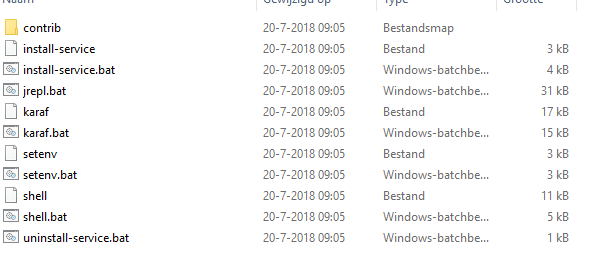
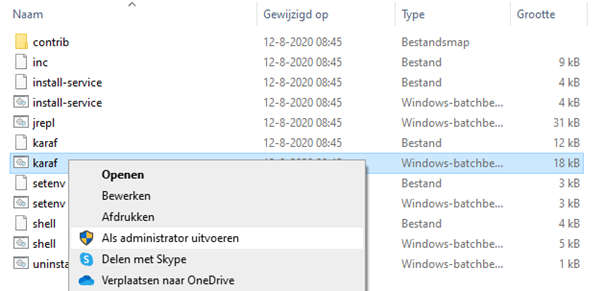
On premise runtime installation
Updated the documents regarding the runtime installations. One point of discussion is the picture with the Java Version, Runtime Numbers and Build Numbers

diff --git a/mds/howto/runtime-installations-onpremise-windows.md b/mds/howto/runtime-installations-onpremise-windows.md
@@ -1,0 +1,193 @@
+# On-premise (Windows) eMagiz runtime installation document
+
+This document describes what the requirements are for a eMagiz runtime installation on-premise on a Windows machine as well as a step by step guideline how to install a runtime on-premise. 
+An on-premise installation often occurs in an architecture where the runtime should run within your own or your customer’s network. 
+This is recommended for all connectors that communicate with a system that is located inside your network or if you would like to test locally on your computer. 
+For an installation of a runtime on a Linux system please see [On-premise eMagiz runtime installation document Linux](runtime-installations-onpremise-linux.md)
+
+## Requirements
+To install a runtime, please be aware that eMagiz needs an environment that satisfies certain requirements. 
+These requirements can be different depending on your architectural choices. 
+Most common is the connector inside your network and a JMS and container running outside the network. 
+In that case, if you are running only connectors on this environment, please keep the following requirements in mind:
+1.	OS with support for Java 
+2.	OS user with granted security rights to run startup services (Windows services) 
+3.	The correct Java installation (Java 8 SE JRE for example, https://adoptopenjdk.net) with NO automatic updates. OpenJDK 8 is currently the recommended version for eMagiz installations.
+4.	NTP synchronization – all eMagiz service instances should use the same time and settings. 
+5.	Access to internet 
+6.	Outbound JMS traffic - port 8443 (and 8444 in case of failover situation) - amqp.emagiz.com / cloudXXXX.emagizcloud.com 
+	-	General monitoring data to eMagiz iPaaS 
+	-	Specific JMS traffic to eMagiz JMS Server 
+7.	Outbound HTTPS traffic – port 443 – Specific provisioning data- https://rts.emagiz.com/ws/ / https://repository.emagiz.com    
+8.	Hardware requirements 
+	-	Modern CPU  
+	-	Enough Disk Space according to sizing calculations 
+9.	Enough Memory according to sizing calculations 
+
+## Additional information:
+1)	To run an eMagiz runtime, the OS of the server should support and have Java installed. 
+The current version is Java 8. eMagiz runtimes with version of 5.x or higher only support Java 8. 
+These runtimes will not run on Java 7 or earlier versions. 
+If you are running on Java 7, or if you need to use an earlier version of the eMagiz runtime, 
+please also check ‘Installing an older version of the eMagiz runtime’.
+2)	Additional to 1), please do NOT allow automatic updates. Updates in Java 8 are installed in a different directory than the earlier version. This causes that with every update, your JAVA_HOME system variable, which ensures that if you use Java you use that version, should be updated manually by every update. If you update automatically, this will cause issues since the JAVA_HOME variable will not properly set after each update. See the following Q&A question to learn more about the importance of JAVA_HOME when using on-premise connectors: https://my.emagiz.com/p/question/172825635700348986. Since it can be though to find a Java version via the Oracle site, you are advised to download your Java version from https://adoptopenjdk.net. 
+3)	By installing a runtime, you also need an OS user with security rights to run startup services. This is required because installing the corresponding service for a connector will make sure that the connector can independently stop or start without any user intervention. This means that if the server (JMS) restarts, no manual actions are required. 
+4)	Each server has a date and time. An eMagiz service instance use the NTP time protocol. The NTP protocol is a networking protocol for clock synchronization based on UTC time. Synchronizing your server with the NTP protocol ensures that eMagiz runtimes ‘talk’ with the same date and time. This ensures that you prevent for example:
+-	That you are not able to reach your connector via the Runtime Dashboard
+-	That synchronized communication fails due to time out errors caused by out of sync runtimes instead of that a system fails to response.
+5)	In order to communicate with other runtimes, that are hosted outside your network, you need access to the internet.
+6)	For your connector to communicate with your JMS server, the on-premise server needs to open its port 8443 (and 8444 in case of failover) for outgoing communication (from the server point of view). Via this port JMS data is communicated. In ensures for example that you are able to reach the connector via the runtime dashboard and that you can see statistics of the runtime in Manage. 
+Via a different port, your connector will communicate with your container and its flows. eMagiz requires that the server opens its port 443 for outgoing information to communicate the actual messages exchanged. 
+7)	The servers itself has requirements as well. Please ensure that the server has a modern CPU, enough diskspace and enough memory. 
+8)	Most important is that for each runtime at least 1GB of RAM Memory is available. These calculation is made as follows:
+-	500 MB heap memory
+-	192 MB metaspace memory
+-	100 MB overhead
+The above is the bare minimum needed to run. As the number of flows running on a connector increases the memory also needs to be increased. The same logic applies to flows that use up a lot of memory because multiple steps are executed within that flow. Both are solid reasons to use 1GB as a general rule of thumb but at the same time always take into account new developments when setting up the sizing.
+
+
+If you install your JMS and container as well within your network and not in the cloud, please keep in mind that you need to open port 8443 (and 8444 in case of failover) as well for incoming communication.
+
+![](../../img/howto/localconnector-infrastructure-view.png)
+
+## Java runtime and eMagiz runtime compatibility
+Java is required to run eMagiz instances, however Java and eMagiz are continuously developing their software. This means that at some point in time older versions of Java and older parts of eMagiz are not supported anymore. In this chapter we will discuss which java version works with which runtime version. 
+Different elements will be discussed. The following schema will show the compatibility of eMagiz in relation with Java and the flow build numbers. 
+
+![](../../img/howto/runtime-win-compatible.png)
+
+X = Not compatible
+! = Caution, not supported anymore 
+V = Compatible
+
+With runtime we mean the version of the eMagiz runtime. Not only flows do have a version number, eMagiz is also continuously developing their runtime as well. The newest runtime version above 5.x is only compatible with Java 8. You can check your runtime version in eMagiz Manage -> Monitoring. Search for ‘uptime’ in the message search field. 
+The results will show what the runtime version of the runtime is. Runtime versions above 5.x show also the version number in the log lines when starting the runtime.
+With build number we mean the flow build number is eMagiz. You can check them either in Deploy -> Releases or in your Runtime Dashboard.
+Check before your installation what runtime should be used. Advice and supported option from eMagiz standpoint is to use Java 8 and the newest eMagiz runtime. If that is not possible, please check if your situation is applicable above. 
+If you have a situation that you end up with the yellow exclamation mark or you are unsure, please check with your eMagiz consultant or Product Manager (productmanamgent@emagiz.com) about what the possibilities are.
+
+
+## How to install runtime
+This chapter will discuss a step to step guideline of how to install a new eMagiz runtime of 5.X or higher. As a reminder this how to is only applicable for a Windows environment. Please see see [On-premise eMagiz runtime installation document Linux](runtime-installations-onpremise-linux.md) on how to install a runtime on a Linux enviroment. 
+If you need to install an earlier version, please also read the extra information ‘Installing an older version of the eMagiz runtime’
+
+### Pre-configuration
+
+1)	The first step of this How-To is to make sure before installing that the requirements as stated above are met. 
+2)	Go to the server where you need to install the runtime.
+3)	Check the JAVA_HOME system variable if it is set and is directed to the correct folder. You can do this by going to ‘This Computer’.
+
+![](../../img/howto/runtime-win-install-step3-1.png)
+
+4) Click with your right mouse button on This PC and go to Properties. The following screen pops up and go to Advanced System Settings.
+
+![](../../img/howto/runtime-win-install-step3-2.png)
+
+5) Go to Environment Variables.
+
+![](../../img/howto/runtime-win-install-step3-3.png)
+
+6) Check if the JAVA_HOME system veriable exists and it directs to the correct JAVA directory. If it does not exists, please add it.
+
+![](../../img/howto/runtime-win-install-step3-4.png)
+
+### Download runtime
+
+1.	Download the eMagiz runtime of your connector, JMS or container via eMagiz Deploy phase in the Containers tab on the server where it needs to be installed. Please note the environment you want the runtime of. If you download the runtime of the wrong environment you will send to or receive of the wrong environment. For example you want to test a flow but by downloading the runtime from the incorrect enviroment you end up sending data to the Production environment. In the case below, we see that we are downloading a connector runtime ordsys for the Test environment.
+
+![](../../img/howto/runtime-win-install-step4-1.png)
+
+### Unzip the runtime
+
+1.	Unzip your download package into a directory which is not too deep into the directory structure. 
+A directory structure which is too deep will cause issues when extracting the runtime.
+For example use: C://eMagiz/test
+Do not use: C://Programs/eMagiz/test/connector/appeee/installation
+2.	Go to the unpacked package and open the folder
+
+### Test the runtime
+1.	In the Bin folder, you can validate if the service can make a connection via karaf.bat. 
+To check the connection of the service, use right mouse button the execute the file as Administrator.
+Please make sure that before you try this you verify that your JMS is running.
+
+![](../../img/howto/runtime-win-install-step4-2.png)
+
+2.	A screen will pop up and will show you the following:
+	![](../../img/howto/runtime-win-install-step4-3.png)
+	-	Use the command ‘log:tail’ to see the full log. You will see the full stack trace. If the installation is successful, you should see something like this as a result:
+		org.eclipse.gemini.blueprint.extender - 2.1.0.RELEASE |  Application context successfully refreshed (ApplicationContext(bundle=nl.capesystemsintegration.demo.bus.commupd.ordsys.connector-infra.spring, config=nl.capesystemsintegration.demo.bus.commupd.ordsys.connector-infra.spring_1.0.0.52.xml))
+
+
+If you see an error or the popup closes itself immediately, please check the above steps and requirements. If the popup closes this is probably due to a mismatch between Java version and runtime version. Please look back at the section explaining how to set JAVA_HOME for more information. If all the above steps are correct and you are not able to identify the issue, please contact your eMagiz contact person (emagizcc@capegroep.nl).
+
+3.	If you see the expected logging, check in eMagiz if:
+-	You are able to reach the runtime via the runtime dashboard.
+-	You see runtime statistics in Manage.
+
+4.	Close the popup that is shown (Stop your karaf executable). This makes sure that you stop the karaf.bat from working
+
+### Install the runtime
+
+1.	Install the windows service to ensure that the runtime will automatically start and stop when the server starts, stops or restarts.
+You can do this by running the ‘install-service.bat’.
+
+![](../../img/howto/runtime-win-install-step11-1.png)
+ 
+
+2.	Please check if the service is created. This can be viewed via Services in Windows. You can find Services by using the navigation bar of Windows and searching for Services or typ-in ‘Services.msc’ in your run-window (WINDOWS+R) and press enter.
+You will find in the list of services your eMagiz runtime service.
+
+
+![](../../img/howto/runtime-win-install-step12-1.png)
+
+If you click on the service, you can either start, stop or restart the service.
+
+3.	Click with your right mouse button on the service and select Properties.
+You will see the following screen.
+
+![](../../img/howto/runtime-win-install-step13-1.png)
+
+
+For the start up type, please check Automatically (delayed start)
+In the Tab Log On, you are able to change the user that starts this service, if necessary. This mostly occurs when you are requested to use a different user for the service than your windows user due to security reasons.
+
+4.	Check in eMagiz, just as in step 8, if your connector is still running.
+5.	Test the connection by sending test messages over the bus. In case of the live environment, contact your technical contact to test for you.
+6.	If everything is working correctly, document the steps to access the server and environment and the credentials.
+
+
+## Sizing upgrade addendum
+
+1)	Estimate the size and the predicted load of the runtime and decide if the default memory settings are enough. 
+If you need more memory, for example when you use more than 20 flows on one connector or if some of the flows running on your connector use up more memory as predicted / default. 
+In these cases go to your etc folder of your runtime installation which is named according to the following naming convention -> emagiz_{technicalbusname}-{containertype}-{technicalnameofruntime}_{environment}. In this example that would mean emagiz_commupd-connector-ordsys_test. 
+
+![](../../img/howto/runtime-win-install-1.png)
+
+Within this folder you will find a wrapper.conf file that is named based on the runtimename. 
+
+![](../../img/howto/runtime-win-install-2.png)
+
+When you open this file you can change the memory settings, both heap and metaspace. In the figures shown below you can see which parts of the file you need to change to change the memory settings.
+
+**Heap memory:**
+![](../../img/howto/runtime-win-install-3.png)
+
+**Metaspace memory:**
+![](../../img/howto/runtime-win-install-4.png)
+
+
+Don't forget to save the file as administrator and restart the runtime afterwards to make sure that the new settings are applied
+
+## Multiple Java versions on same server addendum
+
+When confronted with a situation in which you have to support multiple runtime versions running multiple Java versions this addendum is for you. 
+
+This is mainly the case when both Acceptance and Production connectors are running on the same server on-premise or when you migrate environments through multiple steps. To determine the correct Java version needed for your runtime please see the attached picture detailed under Java runtime and eMagiz runtime compatibility. 
+Be warned: These steps need to be taken before you install a runtime. If you have already installed the runtime please use the uninstall-service.bat action to uninstall the service before proceeding. When confronted with this situation on a live environment please first discuss your actions with CAPE support and the customer.
+1) Navigate to the folder belonging to the runtime you currently want to install and start
+2) Navigate to the bin folder within the runtime installation folder
+3) Edit the setenv.bat file via Notepad++ / Kladblok / WordPad
+4) Search (CTRL + F) for: rem SET JAVA_HOME and change this to SET JAVA_HOME=<Java path>      The Java path refers to the location (path) where Java (8) is installed. Commonly this path will look like: 	 ‘C:\Program Files\Java\jre1.8.x_xxx’ of ‘C:\Program Files\Java\jdk1.8.x_xxx’.
+Be warned: Make sure no spaces are surrounding the ‘=’ character
+5) Save the file as administrator to ensure that changes made in the file are also represented in 

diff --git a/mds/howto/runtime-installations-onpremise-linux.md b/mds/howto/runtime-installations-onpremise-linux.md
@@ -1,0 +1,144 @@
+# On-premise (Linux) eMagiz runtime installation document
+
+This document describes what the requirements are for a eMagiz runtime installation on-premise on a Linux machine as well as a step by step guideline how to install a runtime on-premise. 
+An on-premise installation often occurs in an architecture where the runtime should run within your own or your customer’s network. 
+This is recommended for all connectors that communicate with a system that is located inside your network or if you would like to test locally on your computer. 
+For an installation of a runtime on a Windows system please see [On-premise eMagiz runtime installation document Windows](runtime-installations-onpremise-windows.md)
+
+## Requirements
+To install a runtime, please be aware that eMagiz needs an environment that satisfies certain requirements. 
+These requirements can be different depending on your architectural choices. 
+Most common is the connector inside your network and a JMS and container running outside the network. 
+In that case, if you are running only connectors on this environment, please keep the following requirements in mind:
+1.	OS with support for Java 
+2.	OS user with granted security rights to run startup services (Windows services) 
+3.	The correct Java installation (Java 8 SE JRE for example, https://adoptopenjdk.net) with NO automatic updates. OpenJDK 8 is currently the recommended version for eMagiz installations.
+4.	NTP synchronization – all eMagiz service instances should use the same time and settings. 
+5.	Access to internet 
+6.	Outbound JMS traffic - port 8443 (and 8444 in case of failover situation) - amqp.emagiz.com / cloudXXXX.emagizcloud.com 
+	-	General monitoring data to eMagiz iPaaS 
+	-	Specific JMS traffic to eMagiz JMS Server 
+7.	Outbound HTTPS traffic – port 443 – Specific provisioning data- https://rts.emagiz.com/ws/ / https://repository.emagiz.com    
+8.	Hardware requirements 
+	-	Modern CPU  
+	-	Enough Disk Space according to sizing calculations 
+9.	Enough Memory according to sizing calculations
+10. One of the following Linux distributions:
+	-	Debian 6
+	-	Ubuntu 10 and up
+	-	RHEL 6 
+
+## Additional information:
+1)	To run an eMagiz runtime, the OS of the server should support and have Java installed. 
+The current version is Java 8. eMagiz runtimes with version of 5.x or higher only support Java 8. 
+These runtimes will not run on Java 7 or earlier versions. 
+If you are running on Java 7, or if you need to use an earlier version of the eMagiz runtime, 
+please also check ‘Installing an older version of the eMagiz runtime’.
+2)	Additional to 1), please do NOT allow automatic updates. Updates in Java 8 are installed in a different directory than the earlier version. This causes that with every update, your JAVA_HOME system variable, which ensures that if you use Java you use that version, should be updated manually by every update. If you update automatically, this will cause issues since the JAVA_HOME variable will not properly set after each update. See the following Q&A question to learn more about the importance of JAVA_HOME when using on-premise connectors: https://my.emagiz.com/p/question/172825635700348986. Since it can be though to find a Java version via the Oracle site, you are advised to download your Java version from https://adoptopenjdk.net. 
+3)	By installing a runtime, you also need an OS user with security rights to run startup services. This is required because installing the corresponding service for a connector will make sure that the connector can independently stop or start without any user intervention. This means that if the server (JMS) restarts, no manual actions are required. 
+4)	Each server has a date and time. An eMagiz service instance use the NTP time protocol. The NTP protocol is a networking protocol for clock synchronization based on UTC time. Synchronizing your server with the NTP protocol ensures that eMagiz runtimes ‘talk’ with the same date and time. This ensures that you prevent for example:
+-	That you are not able to reach your connector via the Runtime Dashboard
+-	That synchronized communication fails due to time out errors caused by out of sync runtimes instead of that a system fails to response.
+5)	In order to communicate with other runtimes, that are hosted outside your network, you need access to the internet.
+6)	For your connector to communicate with your JMS server, the on-premise server needs to open its port 8443 (and 8444 in case of failover) for outgoing communication (from the server point of view). Via this port JMS data is communicated. In ensures for example that you are able to reach the connector via the runtime dashboard and that you can see statistics of the runtime in Manage. 
+Via a different port, your connector will communicate with your container and its flows. eMagiz requires that the server opens its port 443 for outgoing information to communicate the actual messages exchanged. 
+7)	The servers itself has requirements as well. Please ensure that the server has a modern CPU, enough diskspace and enough memory. 
+8)	Most important is that for each runtime at least 1GB of RAM Memory is available. These calculation is made as follows:
+-	500 MB heap memory
+-	192 MB metaspace memory
+-	100 MB overhead
+The above is the bare minimum needed to run. As the number of flows running on a connector increases the memory also needs to be increased. The same logic applies to flows that use up a lot of memory because multiple steps are executed within that flow. Both are solid reasons to use 1GB as a general rule of thumb but at the same time always take into account new developments when setting up the sizing.
+
+
+If you install your JMS and container as well within your network and not in the cloud, please keep in mind that you need to open port 8443 (and 8444 in case of failover) as well for incoming communication.
+
+![](../../img/howto/localconnector-infrastructure-view.png)
+
+## Java runtime and eMagiz runtime compatibility
+Java is required to run eMagiz instances, however Java and eMagiz are continuously developing their software. This means that at some point in time older versions of Java and older parts of eMagiz are not supported anymore. In this chapter we will discuss which java version works with which runtime version. 
+Different elements will be discussed. The following schema will show the compatibility of eMagiz in relation with Java and the flow build numbers. 
+
+![](../../img/howto/runtime-win-compatible.png)
+
+X = Not compatible
+! = Caution, not supported anymore 
+V = Compatible
+
+With runtime we mean the version of the eMagiz runtime. Not only flows do have a version number, eMagiz is also continuously developing their runtime as well. The newest runtime version above 5.x is only compatible with Java 8. You can check your runtime version in eMagiz Manage -> Monitoring. Search for ‘uptime’ in the message search field. 
+The results will show what the runtime version of the runtime is. Runtime versions above 5.x show also the version number in the log lines when starting the runtime.
+With build number we mean the flow build number is eMagiz. You can check them either in Deploy -> Releases or in your Runtime Dashboard.
+Check before your installation what runtime should be used. Advice and supported option from eMagiz standpoint is to use Java 8 and the newest eMagiz runtime. If that is not possible, please check if your situation is applicable above. 
+If you have a situation that you end up with the yellow exclamation mark or you are unsure, please check with your eMagiz consultant or Product Manager (productmanamgent@emagiz.com) about what the possibilities are.
+
+## How to install
+
+This chapter will discuss a step to step guideline of how to install a new eMagiz runtime of 5.X or higher. As a reminder this how to is only applicable for a Linux environment. Please see see [On-premise eMagiz runtime installation document Windows](runtime-installations-onpremise-windows.md) on how to install a runtime on a Windows enviroment.
+
+1.	Log in via Putty  by typing in the host and the port and press load
+2.	When asked for credentials fill in credentials (Be aware, Linux does not accept ctrl+v and does not show the password or an indication of the password). Right mouse click to copy the password and press enter
+3.	Create folder in which the installation needs to happen. Use the following command via Putty: sudo mkdir -p {directory.to.place.file} (When asked for password supply it)
+4.	Download the correct runtime from the correct environment you want to install
+5.	Place the zip file in a folder (probably tmp) from which you can copy it to the directory you created in step 3
+6.	Navigate to the folder in which you placed the zip file (Command is: cd {directory structure}). Copy the zip file to the directory you created in step 3. Command for this is: sudo cp ./{filename of zip} {directory you created in step 3}
+7.	Navigate to the folder to which you copied the zip file (Command is: cd {directory structure}) and unzip the zip file. Command for this is: sudo unzip {name of zip file}
+8.	Check whether the unzip action worked correctly. This can be done by running the command ls -al. This shows all the folder/files in the directory. After conforming, check if you see the directory you expect, the unzip action worked remove the zip file from the folder. This can be done based on the following command: sudo rm -r {name of zipfile}. Check whether removal worked
+9.	Navigate to tmp folder and remove zip from there as well.
+10.	Navigate back to the folder in which you placed the directory you want to install
+11.	Install the service for eMagiz by running “install-service” in the “bin” folder of the unzipped runtime by following the below outlined steps:
+	-	Check files in “bin” folder are executable (There should be an x when you type: “ls -al” for files: setenv, install-service)(if not then type: sudo chmod a+x setenv install-service karaf shell)
+	-	Type: “sudo ./install-service”
+	-	The output of this command shows the command necessary to finish the install as a service. Linux will show you which version of the command you need.
+	-	Systemd (newer/most systems)(use full path) Type: sudo systemctl enable <INSTALL_DIR>/bin/<SERVICENAME>.service
+	-	SystemV (older systems)(use full path) Type: sudo ln -s <INSTALL_DIR>/bin/<SERVICE_NAME>-service /etc/init.d/; sudo update-rc.d <SERVICE_NAME>-service defaults
+14.	As administrator, start the eMagiz service (or restart the system, as the service is configured to run “Automatic” at startup):
+	-	systemd type: sudo systemctl start <SERVICE_NAME>
+	-	SystemV Type: sudo /etc/init.d/<SERVICE_NAME>-service start
+15.	Done: Use the runtime dashboard in the portal to monitor and control the started runtime (e.g. deploy/undeploy flows).
+
+## Setting Java Home addendum
+
+Before setting JAVA_HOME first check if JAVA_HOME is already set
+1. Open Console via Putty
+2. Execute the following command line: echo $JAVA_HOME
+3. If output is a path, then your JAVA_HOME is set, make sure the path is correct. If the path is correct no further action is needed
+4. If output is empty or path is incorrect execute the following: vi ~/.bashrc OR vi ~/.bash_profile
+5. Add line: export JAVA_HOME=/usr/java/java-version
+6. Save the file
+7. Source ~/.bashrc OR source ~/.bash_profile
+8. Execute: echo $JAVA_HOME
+9. Output should print the path
+
+
+## Sizing upgrade addendum
+
+Estimate the size and the predicted load of the runtime and decide if the default memory settings are enough. 
+If you need more memory, for example when you use more than 20 flows on one connector or if some of the flows running on your connector use up more memory as predicted / default. 
+
+In these cases follow the steps outlined below to change the sizing:
+1.	Log in via Putty  by typing in the host and the port and press load
+2.	When asked for credentials fill in credentials (Be aware, Linux does not accept ctrl+v and does not show the password or an indication of the password). Right mouse click to copy the password and press enter 
+3.	Navigate to the directory where you have installed the runtime (Command is: cd {directory structure})
+4.	Open the folder related to the runtime you want to change (Command is: cd emagiz_{technicalbusname}-{containertype}-{techincalnameruntime}_{environment}).
+5.	Open the etc folder within your runtime installation (Command is: cd etc)
+6.	Type in the following command: sudo vi emagiz and press Tab. This way Linux should auto suggest the so called wrapper.conf to be edited and press Enter if so
+7.	Type "i" to enter insert mode
+8.	Change the values of heap and or metaspace memory you want to change (you can navigate through the document with your arrow keys)
+9.	Press ESC and then type ":wq!" then press Enter to save the changes and exit Edit mode. Note: If you would like to exit the file without making any changes press ESC, then type ":q!" and press Enter
+10. Restart the runtime by executing the correct restart command:
+	-	systemd type: sudo systemctl restart <SERVICE_NAME>
+	-	SystemV Type: sudo /etc/init.d/<SERVICE_NAME>-service restart
+
+## Multiple Java versions on same server addendum
+
+When confronted with a situation in which you have to support multiple runtime versions with multiple Java versions. This is mainly the case when both Acceptance and Production connectors are running on the same server on-premise or when you migrate environments in steps. To determine the correct Java version needed for your runtime please see the attached picture detailed under Java runtime and eMagiz runtime compatibility. 
+Be warned: These steps need to be taken before you install a runtime. If you have already installed the runtime please use the correct Linux uninstall command to uninstall the service before proceeding. When confronted with this situation on a live environment please first discuss your actions with CAPE support.
+1.	Log in via Putty  by typing in the host and the port and press load
+2.	When asked for credentials fill in credentials (Be aware, Linux does not accept ctrl+v and does not show the password or an indication of the password). Right mouse click to copy the password and press enter 
+3.	Navigate to the directory where you have installed the runtime (Command is: cd {directory structure})
+4.	Open the folder related to the runtime you want to change (Command is: cd emagiz_{technicalbusname}-{containertype}-{techincalnameruntime}_{environment}).
+5.	Open the bin folder within your runtime installation (Command is: cd bin)
+6.	Type in the following command: sudo vi setenv.bat
+7.	Type "i" to enter insert mode
+8.	Navigate with the help of the arrow keys to the part of the file that says rem SET JAVA_HOME and change this to SET JAVA_HOME=<Java path> The Java path refers to the location (path) where Java (8) is installed. Commonly this path will look like: 	 ‘C:\Program Files\Java\jre1.8.x_xxx’ of ‘C:\Program Files\Java\jdk1.8.x_xxx’. Be warned: Make sure no spaces are surrounding the ‘=’ character
+9.	Press ESC and then type ":wq!" then press Enter to save the changes and exit Edit mode. Note: If you would like to exit the file without making any changes press ESC, then type ":q!" and press Enter
+10. Install the runtime via the steps discussed above

diff --git a/mds/howto/index.md b/mds/howto/index.md
@@ -6,12 +6,12 @@ In the sections below, you will find some online documents that are relevant for
 |<img width=600/><p align="center"><img src="../../img/howto/Deployment_icon.png">|<img width=600/><p align="center"><img src="../../img/howto/BestPractice_icon.jpg"></p>|<img width=600/><p align="center"><img src="../../img/howto/How2_icon.png"></p>|
 | - [Migrate to eMagiz 5 (Artemis)](upgrade-to-eMagiz5.md)| - [Best practices for SFTP](sftp-best-practice.md)|- [Daily monitoring with eMagiz](daily-monitoring.md) |
 | - [Install guide eMagiz Connector for Mendix](upgrade-eMagizMendixConnector.md)| - [Typical errors in eMagiz](typical_errors_emagiz.md)| - [End to End testing in eMagiz](end2end-testing.md)|
-| - [On-premise eMagiz runtime installation](runtime-installations-onpremise.md) |- [Best practices for eMagiz Mendix Connector](Bestpractices-emagizmendix-connector.md) | - [Using ILM tollgates in your sprints](emagiz-tollgates.md)|
-| - [Migration from Root cloud to AWS Cloud](migrate-root2aws.md) | - [Effective Alerting with eMagiz](effective-alerting.md) | - [Promote flows from Create to Deploy](promote-to-deploy-from-create.md)|
-| - [Installation of Root Cloud Connectors](rootcloud-runtime-install.md)| - [LCM - Cross Check Integration Model](life-cycle-management.md)| - [Set up your Deployment Plan](deployment-plan.md) |
-| - [Configuring AWS Direct Connect](direct-connect.md)| - [Adding MFA to your account](add-mfa-userlevel.md)| - [Recovery Guide](recovery-guide.md) |
-| - [eMagiz Platform release considerations](eMagiz_Platform_release_considerations.md) |- [Mini reference SOAPUI in context eMagiz](minireference-SOAPUI.md)| - [Runtime Statistics Explained](runtime-statistics-explained.md)  |
-| |- [Mini reference Postman in context eMagiz](minireference-Postman.md)| |
+| - [On-premise eMagiz runtime installation Windows](runtime-installations-onpremise-windows.md)|- [Best practices for eMagiz Mendix Connector](Bestpractices-emagizmendix-connector.md) | - [Using ILM tollgates in your sprints](emagiz-tollgates.md)|
+| - [On-premise eMagiz runtime installation Linux](runtime-installations-onpremise-linux.md)| - [Effective Alerting with eMagiz](effective-alerting.md) | - [Promote flows from Create to Deploy](promote-to-deploy-from-create.md)|
+| - [Migration from Root cloud to AWS Cloud](migrate-root2aws.md)| - [LCM - Cross Check Integration Model](life-cycle-management.md)| - [Set up your Deployment Plan](deployment-plan.md) |
+| - [Installation of Root Cloud Connectors](rootcloud-runtime-install.md)| - [Adding MFA to your account](add-mfa-userlevel.md)| - [Recovery Guide](recovery-guide.md) |
+| - [Configuring AWS Direct Connect](direct-connect.md)|- [Mini reference SOAPUI in context eMagiz](minireference-SOAPUI.md)| - [Runtime Statistics Explained](runtime-statistics-explained.md)  |
+| - [eMagiz Platform release considerations](eMagiz_Platform_release_considerations.md) |- [Mini reference Postman in context eMagiz](minireference-Postman.md)| |
 
 
 | <p align="center">**User guides**</p>| <p align="center">**Event Streaming**</p>| <p align="center">**API Gateway**</p>|
